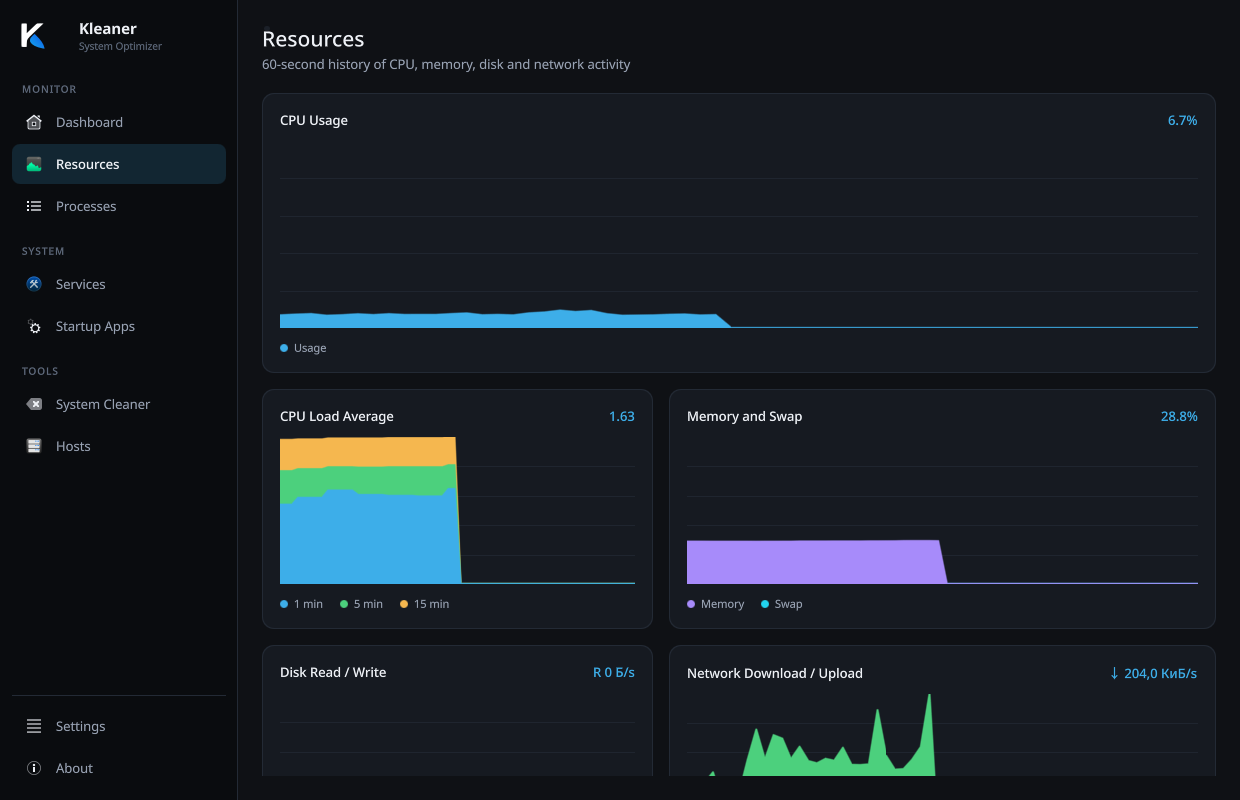
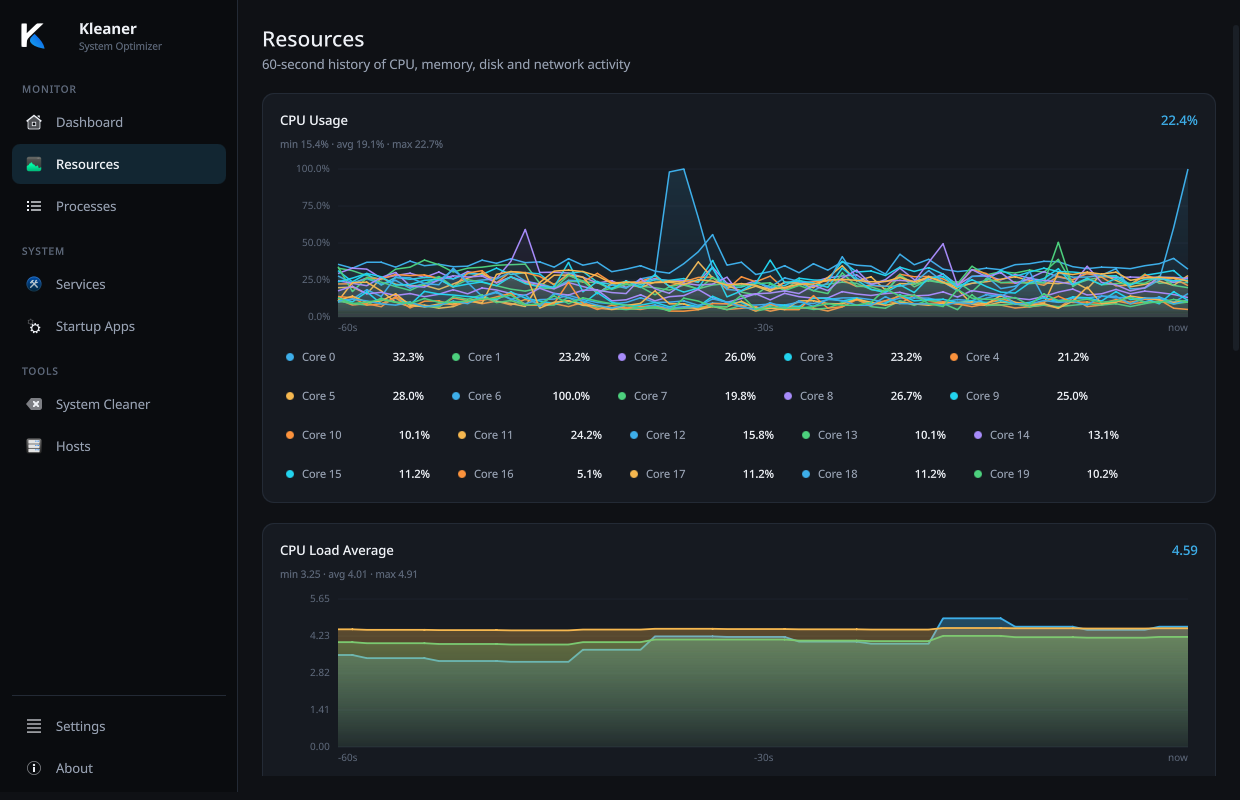
Update website copy and Resources screenshot
Refresh the feature descriptions for the new cleanup and monitoring behaviour, modernise the illustration in the implementation section and replace the Resources screenshot with the per-core chart.

diff --git a/docs/index.html b/docs/index.html
@@ -4,7 +4,7 @@
 <meta charset="UTF-8">
 <meta name="viewport" content="width=device-width, initial-scale=1.0">
 <title>Kleaner — оптимизатор и монитор системы Linux</title>
-<meta name="description" content="Kleaner — современный оптимизатор и монитор системы Linux на Qt 6 и KDE Frameworks 6: ресурсы, процессы, службы systemd, автозапуск, очистка системы и редактор hosts.">
+<meta name="description" content="Kleaner — оптимизатор и монитор Linux на Qt 6: ресурсы, процессы, службы systemd, автозапуск, очистка системы и редактор /etc/hosts. Для Arch Linux.">
 <meta name="robots" content="index, follow">
 <meta name="google-site-verification" content="3NiXEhPto0HdCL29mcyWzzxfceoX-RypoAbln5yUmF8">
 <meta name="theme-color" content="#0f1115">
@@ -67,7 +67,7 @@
         <a class="btn primary" href="https://github.com/VolRencs/Kleaner#installation"><svg viewBox="0 0 24 24" width="18" height="18" fill="none" stroke="currentColor" stroke-width="2" stroke-linecap="round" stroke-linejoin="round" aria-hidden="true"><path d="M12 4v11m0 0 4-4m-4 4-4-4"/><path d="M5 19h14"/></svg> <b data-i18n="hero.install">Установка</b><small data-i18n="hero.forArch">для Arch Linux</small></a>
         <a class="btn outline" href="https://github.com/VolRencs/Kleaner" target="_blank" rel="noopener"><svg viewBox="0 0 16 16" width="18" height="18" fill="currentColor" aria-hidden="true"><path d="M8 0C3.58 0 0 3.58 0 8c0 3.54 2.29 6.53 5.47 7.59.4.07.55-.17.55-.38 0-.19-.01-.82-.01-1.49-2.01.37-2.53-.49-2.69-.94-.09-.23-.48-.94-.82-1.13-.28-.15-.68-.52-.01-.53.63-.01 1.08.58 1.23.82.72 1.21 1.87.87 2.33.66.07-.52.28-.87.51-1.07-1.78-.2-3.64-.89-3.64-3.95 0-.87.31-1.59.82-2.15-.08-.2-.36-1.02.08-2.12 0 0 .67-.21 2.2.82.64-.18 1.32-.27 2-.27s1.36.09 2 .27c1.53-1.04 2.2-.82 2.2-.82.44 1.1.16 1.92.08 2.12.51.56.82 1.27.82 2.15 0 3.07-1.87 3.75-3.65 3.95.29.25.54.73.54 1.48 0 1.07-.01 1.93-.01 2.2 0 .21.15.46.55.38A8.01 8.01 0 0 0 16 8c0-4.42-3.58-8-8-8Z"/></svg><span data-i18n="hero.github">Исходный код</span></a>
       </div>
-      <p class="release"><span data-i18n="hero.release">Последний релиз:</span> <span data-kleaner-version>v1.0.0</span> &nbsp;•&nbsp; Qt 6.11+ &nbsp;•&nbsp; KDE Frameworks 6.30+</p>
+      <p class="release"><span data-i18n="hero.release">Последний релиз:</span> <span data-kleaner-version>v1.1.0</span> &nbsp;•&nbsp; Qt 6.11+ &nbsp;•&nbsp; KDE Frameworks 6.30+</p>
     </div>
     <div class="hero-right">
       <div class="laptop">
@@ -86,12 +86,12 @@
     <h2 data-i18n="feat.title">Возможности</h2>
     <p class="sub" data-i18n="feat.sub">Девять страниц: мониторинг, процессы, службы, автозапуск, очистка, hosts и настройки.</p>
     <div class="grid8">
-      <div class="f"><div class="ic"><svg viewBox="0 0 24 24" width="22" height="22" fill="none" stroke="currentColor" stroke-width="1.8" stroke-linecap="round"><path d="M4 14a8 8 0 1 1 16 0"/><path d="M12 14l4-4"/><path d="M3 19h18"/></svg></div><h3 data-i18n="f1t">Мониторинг системы</h3><p data-i18n="f1d">CPU, память, диск и сеть с обновлением раз в секунду.</p></div>
+      <div class="f"><div class="ic"><svg viewBox="0 0 24 24" width="22" height="22" fill="none" stroke="currentColor" stroke-width="1.8" stroke-linecap="round"><path d="M4 14a8 8 0 1 1 16 0"/><path d="M12 14l4-4"/><path d="M3 19h18"/></svg></div><h3 data-i18n="f1t">Мониторинг системы</h3><p data-i18n="f1d">CPU (общая и по ядрам), память, диск и сеть с обновлением раз в секунду.</p></div>
       <div class="f"><div class="ic"><svg viewBox="0 0 24 24" width="22" height="22" fill="none" stroke="currentColor" stroke-width="1.8" stroke-linecap="round" stroke-linejoin="round"><path d="M4 18l4-6 4 3 5-8 3 4"/><path d="M4 21h16"/></svg></div><h3 data-i18n="f2t">История метрик</h3><p data-i18n="f2d">Графики за 60 секунд по нагрузке, памяти, диску и сети.</p></div>
       <div class="f"><div class="ic"><svg viewBox="0 0 24 24" width="22" height="22" fill="none" stroke="currentColor" stroke-width="1.8" stroke-linecap="round"><path d="M9 6h12M9 12h12M9 18h12"/><circle cx="5" cy="6" r="1.2" fill="currentColor" stroke="none"/><circle cx="5" cy="12" r="1.2" fill="currentColor" stroke="none"/><circle cx="5" cy="18" r="1.2" fill="currentColor" stroke="none"/></svg></div><h3 data-i18n="f3t">Процессы</h3><p data-i18n="f3d">Сортировка по столбцам, поиск по имени, пользователю и PID, завершение через SIGTERM и SIGKILL.</p></div>
       <div class="f"><div class="ic"><svg viewBox="0 0 24 24" width="22" height="22" fill="none" stroke="currentColor" stroke-width="1.8" stroke-linecap="round"><path d="M12 3l8 4.5v9L12 21l-8-4.5v-9z"/><path d="M12 12l8-4.5M12 12v9M12 12L4 7.5"/></svg></div><h3 data-i18n="f4t">Службы systemd</h3><p data-i18n="f4d">Запуск, остановка, перезапуск и автозапуск юнитов через D-Bus и polkit.</p></div>
       <div class="f"><div class="ic"><svg viewBox="0 0 24 24" width="22" height="22" fill="none" stroke="currentColor" stroke-width="1.8" stroke-linecap="round" stroke-linejoin="round"><path d="M5 12h14M12 5l7 7-7 7"/></svg></div><h3 data-i18n="f5t">Автозапуск</h3><p data-i18n="f5d">Записи из ~/.config/autostart и /etc/xdg/autostart: включение, отключение и правка.</p></div>
-      <div class="f"><div class="ic"><svg viewBox="0 0 24 24" width="22" height="22" fill="none" stroke="currentColor" stroke-width="1.8" stroke-linecap="round" stroke-linejoin="round"><path d="M4 7h16M9 7V5h6v2M6 7l1 13h10l1-13"/><path d="M10 11v6M14 11v6"/></svg></div><h3 data-i18n="f6t">Очистка системы</h3><p data-i18n="f6d">Корзина, кэши, /var/log, systemd journal, кэш pacman и пакеты-сироты.</p></div>
+      <div class="f"><div class="ic"><svg viewBox="0 0 24 24" width="22" height="22" fill="none" stroke="currentColor" stroke-width="1.8" stroke-linecap="round" stroke-linejoin="round"><path d="M4 7h16M9 7V5h6v2M6 7l1 13h10l1-13"/><path d="M10 11v6M14 11v6"/></svg></div><h3 data-i18n="f6t">Очистка системы</h3><p data-i18n="f6d">Корзина, кэши, /tmp, /var/log, systemd journal, кэш pacman и пакеты-сироты.</p></div>
       <div class="f"><div class="ic"><svg viewBox="0 0 24 24" width="22" height="22" fill="none" stroke="currentColor" stroke-width="1.8" stroke-linecap="round"><circle cx="12" cy="12" r="9"/><path d="M3 12h18M12 3c2.5 2.4 4 5.6 4 9s-1.5 6.6-4 9c-2.5-2.4-4-5.6-4-9s1.5-6.6 4-9z"/></svg></div><h3 data-i18n="f7t">/etc/hosts</h3><p data-i18n="f7d">Таблица записей с проверкой IPv4/IPv6 и атомарной записью через KAuth.</p></div>
       <div class="f"><div class="ic"><svg viewBox="0 0 24 24" width="22" height="22" fill="none" stroke="currentColor" stroke-width="1.8" stroke-linecap="round" stroke-linejoin="round"><path d="M12 3a9 9 0 1 0 9 9c0-.5-.4-1-1-1h-3a2 2 0 0 1-2-2V4c0-.6-.4-1-1-1z"/></svg></div><h3 data-i18n="f8t">Языки и оформление</h3><p data-i18n="f8d">Русский и украинский интерфейс, смена языка без перезапуска, тёмная тема.</p></div>
     </div>
@@ -128,7 +128,7 @@
       <div class="page-text">
         <div class="page-icon"><svg viewBox="0 0 24 24" width="24" height="24" fill="none" stroke="currentColor" stroke-width="1.8" stroke-linecap="round" stroke-linejoin="round"><path d="M4 18l4-6 4 3 5-8 3 4"/><path d="M4 21h16"/></svg></div>
         <h3 data-i18n="res.t">Ресурсы</h3>
-        <p data-i18n="res.d">Пять графиков с историей за 60 секунд. Данные накапливаются, пока приложение запущено, и не сбрасываются при переходе между страницами.</p>
+        <p data-i18n="res.d">Пять общих графиков с историей за 60 секунд и раскладка нагрузки по ядрам. Данные накапливаются, пока приложение запущено, и не сбрасываются при переходе между страницами.</p>
         <ul class="page-points">
           <li data-i18n="res.a">CPU: загрузка и средняя нагрузка за 1/5/15 минут</li>
           <li data-i18n="res.b">Память и swap</li>
@@ -192,10 +192,10 @@
       <div class="page-text">
         <div class="page-icon"><svg viewBox="0 0 24 24" width="24" height="24" fill="none" stroke="currentColor" stroke-width="1.8" stroke-linecap="round" stroke-linejoin="round"><path d="M4 7h16M9 7V5h6v2M6 7l1 13h10l1-13"/><path d="M10 11v6M14 11v6"/></svg></div>
         <h3 data-i18n="clean.t">Очистка системы</h3>
-        <p data-i18n="clean.d">Шесть категорий с подсчётом размера. Отмечаете нужные пункты — приложение показывает итоговый объём и удаляет выбранное; выбор сохраняется между запусками.</p>
+        <p data-i18n="clean.d">Семь категорий с подсчётом размера. Отмечаете нужные пункты — приложение показывает итоговый объём и удаляет выбранное; выбор сохраняется между запусками.</p>
         <ul class="page-points">
           <li data-i18n="clean.a">Корзина, кэши приложений, отчёты о сбоях</li>
-          <li data-i18n="clean.b">Системные журналы и обрезка systemd journal до 50 МБ</li>
+          <li data-i18n="clean.b">Системные журналы: ротация и полная очистка архива journal</li>
           <li data-i18n="clean.c">Кэш pacman и удаление пакетов-сирот</li>
         </ul>
       </div>
@@ -268,30 +268,88 @@
     <div class="show-art" aria-hidden="true">
       <svg viewBox="0 0 420 340" width="100%" height="auto" fill="none" role="presentation">
         <defs>
-          <linearGradient id="artScreen" x1="0" y1="0" x2="1" y2="1">
-            <stop offset="0" stop-color="#63c9f7"/><stop offset="0.55" stop-color="#3daee9"/><stop offset="1" stop-color="#1f6fd0"/>
+          <linearGradient id="artK" x1="0%" y1="0%" x2="100%" y2="100%">
+            <stop offset="0" stop-color="#17a9ef"/><stop offset="1" stop-color="#0b57e8"/>
+          </linearGradient>
+          <linearGradient id="artArea" x1="0" y1="0" x2="0" y2="1">
+            <stop offset="0" stop-color="#3daee9" stop-opacity="0.42"/>
+            <stop offset="1" stop-color="#3daee9" stop-opacity="0.03"/>
           </linearGradient>
           <linearGradient id="artGlow" x1="0" y1="0" x2="0" y2="1">
-            <stop offset="0" stop-color="#3daee9" stop-opacity="0.35"/><stop offset="1" stop-color="#3daee9" stop-opacity="0"/>
+            <stop offset="0" stop-color="#3daee9" stop-opacity="0.32"/><stop offset="1" stop-color="#3daee9" stop-opacity="0"/>
           </linearGradient>
+          <clipPath id="artWindow">
+            <rect x="48" y="36" width="324" height="234" rx="12"/>
+          </clipPath>
         </defs>
-        <ellipse cx="210" cy="318" rx="150" ry="16" fill="url(#artGlow)"/>
-        <rect x="66" y="52" width="288" height="196" rx="16" fill="#1a1f28" stroke="#323c4c" stroke-width="2"/>
-        <rect x="82" y="68" width="256" height="164" rx="8" fill="#0f1115" stroke="#232a35"/>
-        <circle cx="210" cy="60" r="3" fill="#3a4453"/>
-        <path d="M36 262h348l-22 26H58z" fill="#232a35" stroke="#323c4c" stroke-width="2" stroke-linejoin="round"/>
-        <rect x="162" y="262" width="96" height="9" rx="4.5" fill="#161a21" stroke="#323c4c"/>
-        <circle cx="130" cy="118" r="30" fill="none" stroke="#232a35" stroke-width="10"/>
-        <path d="M130 88a30 30 0 0 1 26 45" stroke="url(#artScreen)" stroke-width="10" stroke-linecap="round"/>
-        <rect x="182" y="94" width="130" height="10" rx="5" fill="#232a35"/>
-        <rect x="182" y="112" width="96" height="10" rx="5" fill="#1c212b"/>
-        <circle cx="130" cy="190" r="24" fill="none" stroke="#232a35" stroke-width="9"/>
-        <path d="M130 166a24 24 0 0 1 21 35" stroke="#a78bfa" stroke-width="9" stroke-linecap="round"/>
-        <rect x="182" y="170" width="110" height="10" rx="5" fill="#232a35"/>
-        <rect x="182" y="188" width="140" height="10" rx="5" fill="#1c212b"/>
-        <rect x="88" y="222" width="60" height="8" rx="4" fill="#1c212b"/>
-        <rect x="158" y="222" width="90" height="8" rx="4" fill="#1c212b"/>
-        <rect x="258" y="222" width="48" height="8" rx="4" fill="#1c212b"/>
+
+        <ellipse cx="210" cy="312" rx="142" ry="15" fill="url(#artGlow)"/>
+
+        <!-- window -->
+        <rect x="46" y="34" width="328" height="238" rx="14" fill="#161a21" stroke="#232a35" stroke-width="2"/>
+
+        <g clip-path="url(#artWindow)">
+          <rect x="48" y="36" width="324" height="32" fill="#1a1f28"/>
+          <rect x="48" y="68" width="86" height="202" fill="#12151b"/>
+        </g>
+        <line x1="46" y1="68" x2="374" y2="68" stroke="#232a35"/>
+        <line x1="134" y1="69" x2="134" y2="270" stroke="#232a35"/>
+
+        <!-- title: K mark + name -->
+        <g transform="translate(61 40) scale(0.11) matrix(.1 0 0 -.1 0 218)">
+          <path fill="#eef1f6" fill-rule="nonzero" d="M1338 2066c-49-18-63-31-398-355-157-152-316-305-354-341l-69-65 7 366c6 330 5 368-9 383-14 14-44 16-196 16-105 0-188-4-200-10-19-10-19-31-19-909 0-823 1-900 17-912 19-17 294-25 358-12l40 9 6 229c7 260 13 292 80 395 50 77 224 256 459 473 461 425 781 729 775 736-3 2-108 6-233 8-173 2-236-1-264-11"/>
+          <path fill="url(#artK)" d="M1022 1149C827 976 776 892 775 750c0-73 4-93 28-142 109-223 453-400 960-497 142-27 157-27 157 2 0 39-48 191-88 279-73 158-183 318-340 496-96 108-342 362-351 362-3 0-57-45-119-101"/>
+        </g>
+        <rect x="92" y="43" width="56" height="7" rx="3.5" fill="#eef1f6" opacity="0.85"/>
+        <rect x="92" y="54" width="38" height="5" rx="2.5" fill="#5f6a7c"/>
+        <circle cx="342" cy="48" r="2.2" fill="#323c4c"/>
+        <circle cx="352" cy="48" r="2.2" fill="#323c4c"/>
+        <circle cx="362" cy="48" r="2.2" fill="#323c4c"/>
+
+        <!-- sidebar navigation -->
+        <rect x="54" y="80" width="72" height="16" rx="5" fill="#3daee9" fill-opacity="0.16"/>
+        <circle cx="63" cy="88" r="3" fill="#3daee9"/>
+        <rect x="71" y="85" width="42" height="6" rx="3" fill="#3daee9" opacity="0.9"/>
+
+        <circle cx="63" cy="112" r="3" fill="#323c4c"/>
+        <rect x="71" y="109" width="48" height="6" rx="3" fill="#323c4c"/>
+        <circle cx="63" cy="136" r="3" fill="#323c4c"/>
+        <rect x="71" y="133" width="38" height="6" rx="3" fill="#323c4c"/>
+        <circle cx="63" cy="160" r="3" fill="#323c4c"/>
+        <rect x="71" y="157" width="44" height="6" rx="3" fill="#323c4c"/>
+        <circle cx="63" cy="184" r="3" fill="#323c4c"/>
+        <rect x="71" y="181" width="34" height="6" rx="3" fill="#323c4c"/>
+
+        <line x1="54" y1="206" x2="126" y2="206" stroke="#232a35"/>
+        <circle cx="63" cy="224" r="3" fill="#323c4c"/>
+        <rect x="71" y="221" width="40" height="6" rx="3" fill="#323c4c"/>
+
+        <!-- gauges -->
+        <circle cx="184" cy="122" r="26" stroke="#232a35" stroke-width="8"/>
+        <path d="M184 96a26 26 0 1 1 -24.73 34.03" stroke="#3daee9" stroke-width="8" stroke-linecap="round"/>
+        <rect x="168" y="158" width="32" height="6" rx="3" fill="#323c4c"/>
+
+        <circle cx="254" cy="122" r="26" stroke="#232a35" stroke-width="8"/>
+        <path d="M254 96a26 26 0 0 1 3.26 51.79" stroke="#a78bfa" stroke-width="8" stroke-linecap="round"/>
+        <rect x="238" y="158" width="32" height="6" rx="3" fill="#323c4c"/>
+
+        <circle cx="324" cy="122" r="26" stroke="#232a35" stroke-width="8"/>
+        <path d="M324 96a26 26 0 1 1 -24.73 17.97" stroke="#fb923c" stroke-width="8" stroke-linecap="round"/>
+        <rect x="308" y="158" width="32" height="6" rx="3" fill="#323c4c"/>
+
+        <!-- history chart -->
+        <rect x="146" y="180" width="216" height="68" rx="8" fill="#12151b" stroke="#232a35"/>
+        <line x1="158" y1="200" x2="350" y2="200" stroke="#232a35" opacity="0.6"/>
+        <line x1="158" y1="218" x2="350" y2="218" stroke="#232a35" opacity="0.6"/>
+        <line x1="158" y1="236" x2="350" y2="236" stroke="#232a35" opacity="0.6"/>
+        <path d="M158 240 L176 228 L194 232 L212 214 L230 220 L248 204 L266 212 L284 196 L302 206 L320 192 L338 200 L350 198 L350 246 L158 246 Z" fill="url(#artArea)"/>
+        <path d="M158 240 L176 228 L194 232 L212 214 L230 220 L248 204 L266 212 L284 196 L302 206 L320 192 L338 200 L350 198" stroke="#3daee9" stroke-width="2" stroke-linecap="round" stroke-linejoin="round"/>
+        <circle cx="284" cy="196" r="3" fill="#5cbef1"/>
+        <circle cx="320" cy="192" r="3" fill="#5cbef1"/>
+
+        <!-- stand -->
+        <rect x="202" y="272" width="16" height="16" rx="4" fill="#1c212b" stroke="#232a35"/>
+        <rect x="156" y="288" width="108" height="10" rx="5" fill="#232a35" stroke="#323c4c" stroke-width="1.5"/>
       </svg>
     </div>
   </div>

diff --git a/docs/script.js b/docs/script.js
@@ -27,7 +27,7 @@ const I18N = {
     'feat.title': 'Возможности',
     'feat.sub': 'Девять страниц: мониторинг, процессы, службы, автозапуск, очистка, hosts и настройки.',
     'f1t': 'Мониторинг системы',
-    'f1d': 'CPU, память, диск и сеть с обновлением раз в секунду.',
+    'f1d': 'CPU (общая и по ядрам), память, диск и сеть с обновлением раз в секунду.',
     'f2t': 'История метрик',
     'f2d': 'Графики за 60 секунд по нагрузке, памяти, диску и сети.',
     'f3t': 'Процессы',
@@ -37,7 +37,7 @@ const I18N = {
     'f5t': 'Автозапуск',
     'f5d': 'Записи из ~/.config/autostart и /etc/xdg/autostart: включение, отключение и правка.',
     'f6t': 'Очистка системы',
-    'f6d': 'Корзина, кэши, /var/log, systemd journal, кэш pacman и пакеты-сироты.',
+    'f6d': 'Корзина, кэши, /tmp, /var/log, systemd journal, кэш pacman и пакеты-сироты.',
     'f7t': '/etc/hosts',
     'f7d': 'Таблица записей с проверкой IPv4/IPv6 и атомарной записью через KAuth.',
     'f8t': 'Языки и оформление',
@@ -51,7 +51,7 @@ const I18N = {
     'dash.b': 'Характеристики: хост, дистрибутив, ядро, CPU, пользователь, uptime',
     'dash.c': 'Накопители: точка монтирования, файловая система, занято/всего',
     'res.t': 'Ресурсы',
-    'res.d': 'Пять графиков с историей за 60 секунд. Данные накапливаются, пока приложение запущено, и не сбрасываются при переходе между страницами.',
+    'res.d': 'Пять общих графиков с историей за 60 секунд и раскладка нагрузки по ядрам. Данные накапливаются, пока приложение запущено, и не сбрасываются при переходе между страницами.',
     'res.a': 'CPU: загрузка и средняя нагрузка за 1/5/15 минут',
     'res.b': 'Память и swap',
     'res.c': 'Диск: чтение и запись; сеть: приём и передача',
@@ -71,9 +71,9 @@ const I18N = {
     'start.b': 'Добавление, редактирование и удаление .desktop',
     'start.c': 'Поля: имя, команда, комментарий, значок',
     'clean.t': 'Очистка системы',
-    'clean.d': 'Шесть категорий с подсчётом размера. Отмечаете нужные пункты — приложение показывает итоговый объём и удаляет выбранное; выбор сохраняется между запусками.',
+    'clean.d': 'Семь категорий с подсчётом размера. Отмечаете нужные пункты — приложение показывает итоговый объём и удаляет выбранное; выбор сохраняется между запусками.',
     'clean.a': 'Корзина, кэши приложений, отчёты о сбоях',
-    'clean.b': 'Системные журналы и обрезка systemd journal до 50 МБ',
+    'clean.b': 'Системные журналы: ротация и полная очистка архива journal',
     'clean.c': 'Кэш pacman и удаление пакетов-сирот',
     'hosts.t': 'Хосты',
     'hosts.d': 'Записи /etc/hosts в виде таблицы: адрес и имена хостов. Перед сохранением проверяются IPv4/IPv6 и имена, запись выполняется через KAuth.',
@@ -110,7 +110,7 @@ const I18N = {
     'feat.title': 'Features',
     'feat.sub': 'Nine pages: monitoring, processes, services, startup, cleanup, hosts and settings.',
     'f1t': 'System monitoring',
-    'f1d': 'CPU, memory, disk and network, refreshed every second.',
+    'f1d': 'CPU (total and per core), memory, disk and network, refreshed every second.',
     'f2t': 'Metric history',
     'f2d': '60-second charts for load, memory, disk and network.',
     'f3t': 'Processes',
@@ -120,7 +120,7 @@ const I18N = {
     'f5t': 'Startup apps',
     'f5d': 'Entries from ~/.config/autostart and /etc/xdg/autostart: toggle and edit.',
     'f6t': 'System cleaner',
-    'f6d': 'Trash, caches, /var/log, systemd journal, pacman cache and orphan packages.',
+    'f6d': 'Trash, caches, /tmp, /var/log, systemd journal, pacman cache and orphan packages.',
     'f7t': '/etc/hosts',
     'f7d': 'Entry table with IPv4/IPv6 validation and an atomic write through KAuth.',
     'f8t': 'Languages and appearance',
@@ -134,7 +134,7 @@ const I18N = {
     'dash.b': 'Spec table: host, distribution, kernel, CPU, user, uptime',
     'dash.c': 'Volumes: mount point, filesystem, used/total',
     'res.t': 'Resources',
-    'res.d': 'Five charts with 60 seconds of history. Data accumulates while the app is running and is not reset when you switch pages.',
+    'res.d': 'Five overview charts with 60 seconds of history plus a per-core breakdown. Data accumulates while the app is running and is not reset when you switch pages.',
     'res.a': 'CPU: usage and 1/5/15-minute load average',
     'res.b': 'Memory and swap',
     'res.c': 'Disk: read and write; network: receive and transmit',
@@ -154,9 +154,9 @@ const I18N = {
     'start.b': 'Add, edit and remove .desktop files',
     'start.c': 'Fields: name, command, comment, icon',
     'clean.t': 'System cleaner',
-    'clean.d': 'Six categories with size calculation. Tick the items you need, see the total size and remove them; selections persist across restarts.',
+    'clean.d': 'Seven categories with size calculation. Tick the items you need, see the total size and remove them; selections persist across restarts.',
     'clean.a': 'Trash, application caches, crash reports',
-    'clean.b': 'System logs and systemd journal vacuum (50 MB)',
+    'clean.b': 'System logs: rotation and full journal archive cleanup',
     'clean.c': 'pacman cache and orphan package removal',
     'hosts.t': 'Hosts',
     'hosts.d': 'A table of /etc/hosts entries: address and hostnames. IPv4/IPv6 and names are validated before saving; the write goes through KAuth.',
